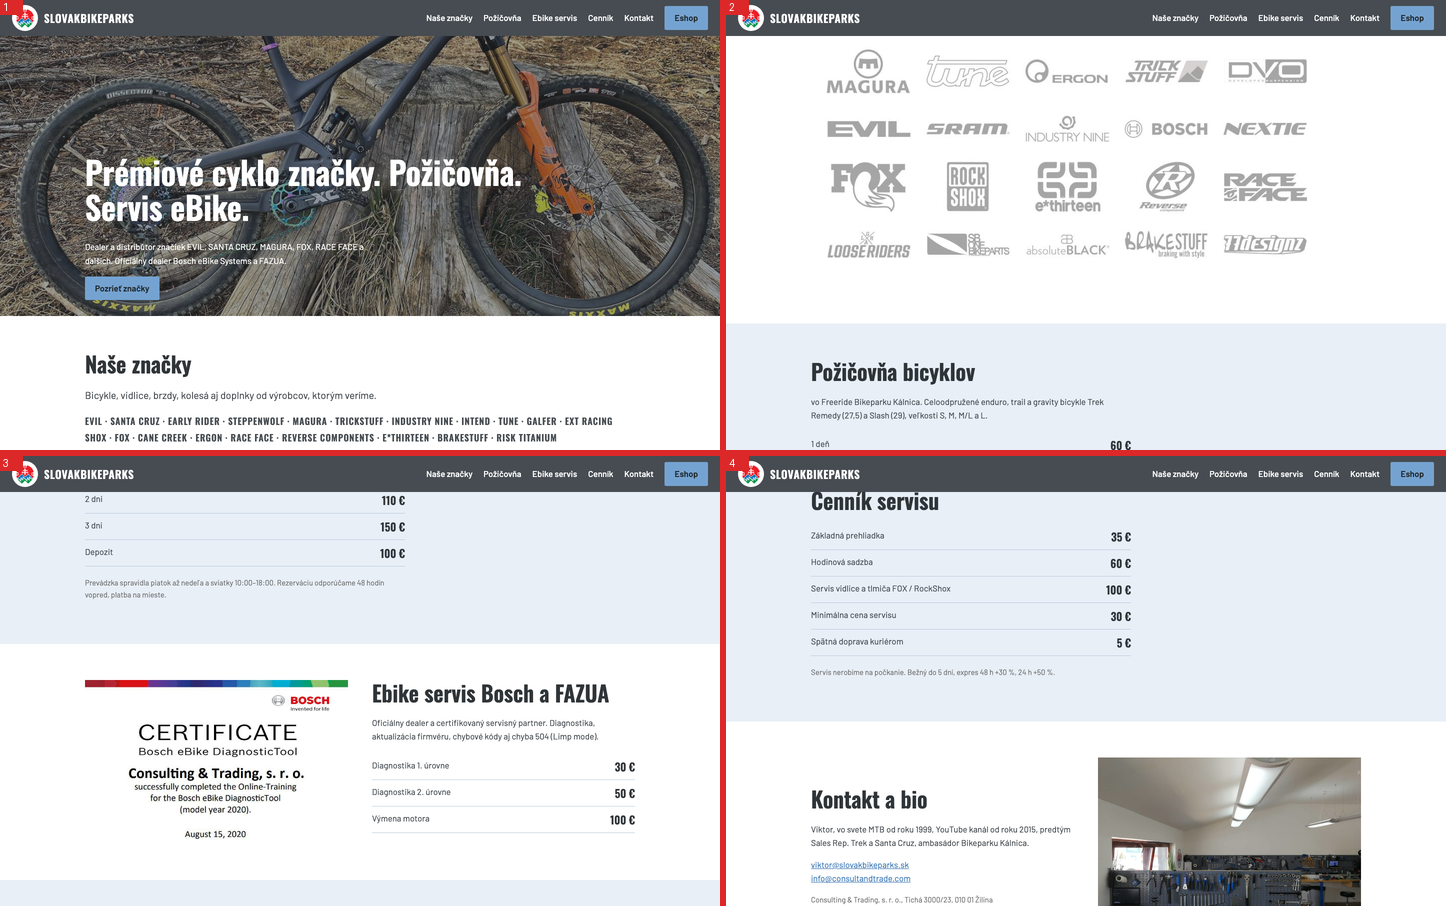
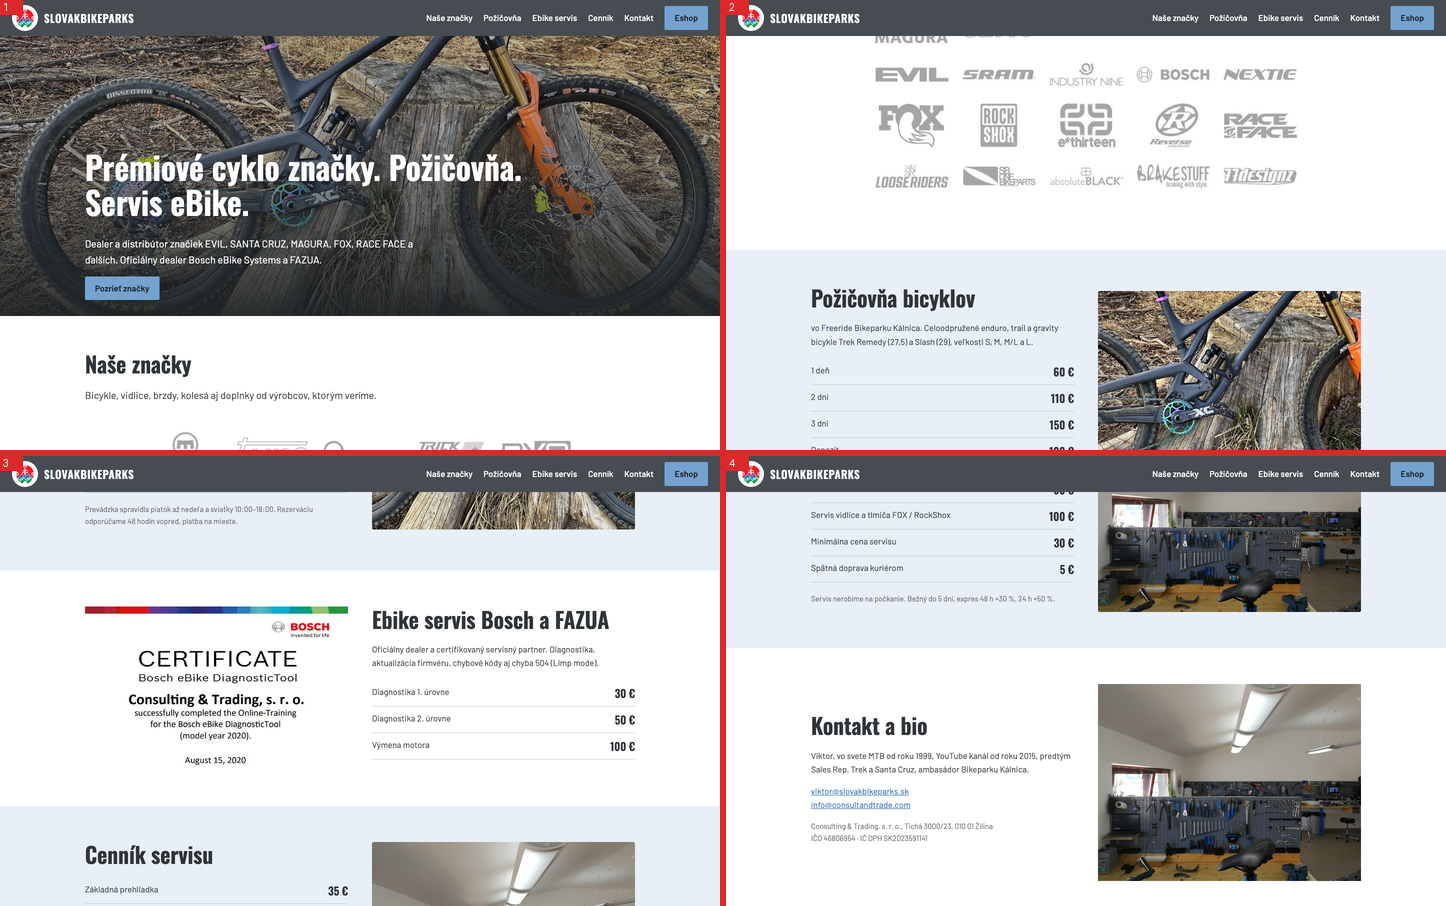
Úpravy 2

diff --git a/index.html b/index.html
@@ -11,7 +11,7 @@
 <link rel="icon" href="img/logo.png">
 <link rel="preconnect" href="https://fonts.googleapis.com"><link rel="preconnect" href="https://fonts.gstatic.com" crossorigin>
 <link href="https://fonts.googleapis.com/css2?family=Oswald:wght@500;600&family=Barlow:wght@400;500;600&display=swap&subset=latin-ext" rel="stylesheet">
-<link rel="stylesheet" href="style.css?v=3">
+<link rel="stylesheet" href="style.css?v=4">
 </head>
 <body>
 <header class="top">
@@ -39,14 +39,13 @@
 </section>
 
 <section id="pozicovna" class="sec alt">
- <div class="cols">
+ <div class="cols one">
   <div>
    <h2>Požičovňa bicyklov</h2>
    <p>vo Freeride Bikeparku Kálnica. Celoodpružené enduro, trail a gravity bicykle Trek Remedy (27,5) a Slash (29), veľkosti S, M, M/L a L.</p>
    <ul class="price"><li><span>1 deň</span><b>60&nbsp;€</b></li><li><span>2 dni</span><b>110&nbsp;€</b></li><li><span>3 dni</span><b>150&nbsp;€</b></li><li><span>Depozit</span><b>100&nbsp;€</b></li></ul>
    <p class="note">Prevádzka spravidla piatok až nedeľa a sviatky 10:00–18:00. Rezerváciu odporúčame 48 hodín vopred, platba na mieste.</p>
   </div>
-  <img class="ph" src="img/hero.jpg" alt="Bicykel EVIL s vidlicou FOX" width="1600" height="611" loading="lazy">
  </div>
 </section>
 
@@ -62,12 +61,12 @@
 </section>
 
 <section id="cennik" class="sec alt">
- <div class="cols"><div><h2>Cenník servisu</h2>
+ <div class="cols one"><div><h2>Cenník servisu</h2>
  <ul class="price">
   <li><span>Základná prehliadka</span><b>35&nbsp;€</b></li><li><span>Hodinová sadzba</span><b>60&nbsp;€</b></li><li><span>Servis vidlice a tlmiča FOX / RockShox</span><b>100&nbsp;€</b></li><li><span>Minimálna cena servisu</span><b>30&nbsp;€</b></li><li><span>Spätná doprava kuriérom</span><b>5&nbsp;€</b></li>
  </ul>
  <p class="note">Servis nerobíme na počkanie. Bežný do 5 dní, expres 48 h +30 %, 24 h +50 %.</p>
- </div><img class="ph" src="img/bio.jpg" alt="Dielňa SlovakBikeparks" width="1024" height="768" loading="lazy"></div>
+ </div></div>
 </section>
 
 <section id="kontakt" class="sec">

diff --git a/style.css b/style.css
@@ -32,4 +32,5 @@ nav{display:none;position:absolute;top:100%;left:0;right:0;background:#464C51;fl
 .price b{white-space:nowrap}.ph{width:100%;height:100%;max-height:420px;object-fit:cover;border-radius:4px}
 .hero::after{content:"";position:absolute;inset:0;background:linear-gradient(0deg,rgba(30,34,37,.92),rgba(30,34,37,.1) 70%)}
 .hero-t{z-index:2}.hero-t p{font-size:20px}.hero img{opacity:.8}
-.wide{max-width:900px;margin:24px auto 0}
+.wide{width:100%;max-width:900px;margin:24px auto 0}
+.hero-t p{max-width:560px;line-height:1.5;font-size:21px}.hero::after{background:linear-gradient(0deg,rgba(0,0,0,.8),rgba(0,0,0,.15) 75%)}
